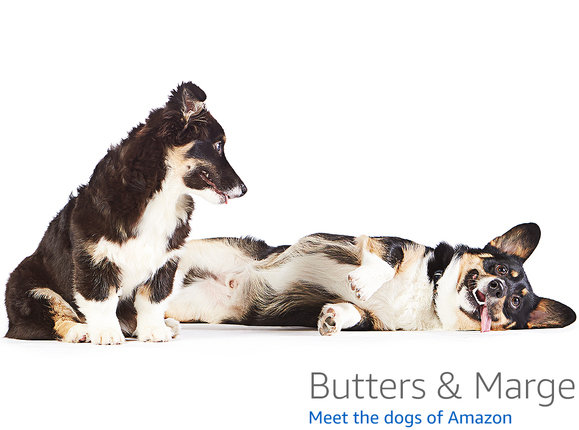
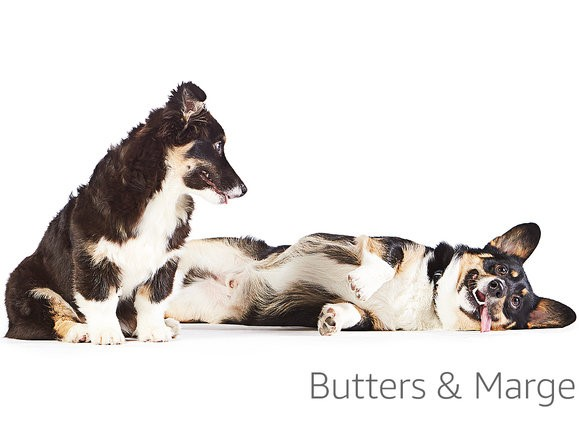
add cute 404 page (inspired by Amazon)

Changed region(s): [[0.5285, 0.9372, 0.9016, 0.9977], [0.8394, 0.7558, 0.8705, 0.786]]

diff --git a/src/main/resources/templates/error.html b/src/main/resources/templates/error.html
@@ -4,7 +4,7 @@
     <meta http-equiv="Content-Type" content="text/html; charset=UTF-8">
     <meta http-equiv="x-ua-compatible" content="ie=edge">
     <meta name="viewport" content="width=device-width, initial-scale=1, shrink-to-fit=no">
-    <title>1Page Not Found1</title>
+    <title>Page Not Found</title>
 
 </head>
 <body data-gr-c-s-loaded="true">
